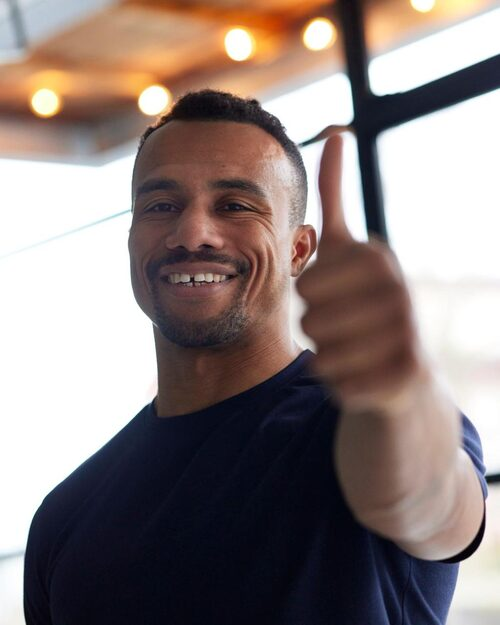
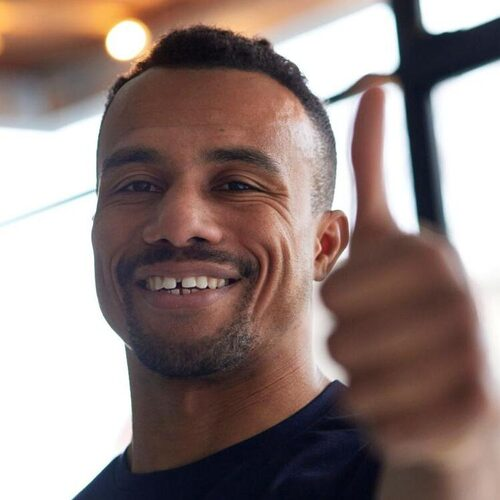
Team section: process Gijs's feedback of 2026-04-24
- "Leadership & Team" -> "Leadership, Partners & Team"; "And the team" -> "Partners"
- Partners: Ludo Keizer (logistics design Europe, Africa, N. America, Australasia),
  Iván Capdevila (Iberia, LatAm; links to La Nomàdica), Erik Wiebes (graphic design; links to Lemonpress)
- Team list (Scott, Zára, Esperanza, Melissa) under its own heading
- Photos re-cropped from the originals, closer on the face
- Preview script handles several lists; external links open in a new tab
- Mobile: tapping a name now opens the profile (the preview panel is hidden there)

diff --git a/index.html b/index.html
@@ -828,7 +828,7 @@
 
     <section class="leadership">
         <div class="leadership-header">
-            <span class="section-label">Leadership &amp; Team</span>
+            <span class="section-label">Leadership, Partners &amp; Team</span>
             <h2 class="leadership-title">Led by <span class="warm">curiosity</span>,<br>built by people.</h2>
         </div>
 
@@ -859,14 +859,14 @@
         </div>
 
         <div class="team-divider">
-            <span class="section-label">And the team</span>
+            <span class="section-label">Partners</span>
             <h3 class="team-divider-title">People Gijs <em>builds with</em>.</h3>
         </div>
 
-        <div class="team-grid-layout" id="teamLayout">
+        <div class="team-grid-layout">
             <ul class="team-items">
                 <li class="team-item"
-                    data-name="Ludo Keizer" data-role="Project Lead &amp; Design"
+                    data-name="Ludo Keizer" data-role="Project Lead &amp; Logistics Design · Europe, Africa, North America, Australasia"
                     data-photo="team/photos/ludo_keizer.jpeg"
                     data-href="team/ludo.html">
                     <a href="team/ludo.html" class="team-item-link">
@@ -874,6 +874,43 @@
                     </a>
                 </li>
 
+                <li class="team-item"
+                    data-name="Iván Capdevila" data-role="Project Lead &amp; Logistics Design · Iberia, Latin America"
+                    data-href="https://www.lanomadica.com/" data-link-label="Visit La Nomàdica">
+                    <a href="https://www.lanomadica.com/" class="team-item-link" target="_blank" rel="noopener">
+                        <span class="team-item-name">Iván Capdevila</span>
+                    </a>
+                </li>
+
+                <li class="team-item"
+                    data-name="Erik Wiebes" data-role="Graphic Design &amp; Artwork"
+                    data-href="https://www.lemonpress.nl/" data-link-label="Visit Lemonpress">
+                    <a href="https://www.lemonpress.nl/" class="team-item-link" target="_blank" rel="noopener">
+                        <span class="team-item-name">Erik Wiebes</span>
+                    </a>
+                </li>
+            </ul>
+
+            <aside class="team-preview-panel" aria-hidden="true">
+                <div class="preview-card">
+                    <div class="preview-photo"></div>
+                    <div class="preview-text">
+                        <h4 class="preview-name"></h4>
+                        <p class="preview-role"></p>
+                        <p class="preview-bio"></p>
+                        <a href="#" class="preview-link">View full profile &#8594;</a>
+                    </div>
+                </div>
+            </aside>
+        </div>
+
+        <div class="team-divider">
+            <span class="section-label">Team</span>
+            <h3 class="team-divider-title">The people who <em>make it happen</em>.</h3>
+        </div>
+
+        <div class="team-grid-layout">
+            <ul class="team-items">
                 <li class="team-item"
                     data-name="Scott Everduim" data-role="Health, Vitality &amp; Strength"
                     data-photo="team/photos/scott.jpeg"
@@ -915,14 +952,14 @@
                 </li>
             </ul>
 
-            <aside class="team-preview-panel" id="teamPreviewPanel" aria-hidden="true">
-                <div class="preview-card" id="previewCard">
-                    <div class="preview-photo" id="previewPhoto"></div>
+            <aside class="team-preview-panel" aria-hidden="true">
+                <div class="preview-card">
+                    <div class="preview-photo"></div>
                     <div class="preview-text">
-                        <h4 class="preview-name" id="previewName"></h4>
-                        <p class="preview-role" id="previewRole"></p>
-                        <p class="preview-bio" id="previewBio"></p>
-                        <a href="#" class="preview-link" id="previewLink">View full profile &#8594;</a>
+                        <h4 class="preview-name"></h4>
+                        <p class="preview-role"></p>
+                        <p class="preview-bio"></p>
+                        <a href="#" class="preview-link">View full profile &#8594;</a>
                     </div>
                 </div>
             </aside>
@@ -987,17 +1024,16 @@
         });
 
         // Team list — click a name, fold out profile preview to the right
-        (function() {
-            const layout = document.getElementById('teamLayout');
-            const panel = document.getElementById('teamPreviewPanel');
-            if (!layout || !panel) return;
+        document.querySelectorAll('.team-grid-layout').forEach(function(layout) {
+            const panel = layout.querySelector('.team-preview-panel');
+            if (!panel) return;
 
             const items = layout.querySelectorAll('.team-item');
-            const photoEl = document.getElementById('previewPhoto');
-            const nameEl = document.getElementById('previewName');
-            const roleEl = document.getElementById('previewRole');
-            const bioEl = document.getElementById('previewBio');
-            const linkEl = document.getElementById('previewLink');
+            const photoEl = panel.querySelector('.preview-photo');
+            const nameEl = panel.querySelector('.preview-name');
+            const roleEl = panel.querySelector('.preview-role');
+            const bioEl = panel.querySelector('.preview-bio');
+            const linkEl = panel.querySelector('.preview-link');
 
             let currentKey = null;
 
@@ -1028,6 +1064,14 @@
                     bioEl.style.display = 'none';
                 }
                 linkEl.setAttribute('href', d.href);
+                linkEl.textContent = (d.linkLabel || 'View full profile') + ' \u2192';
+                if (/^https?:/.test(d.href)) {
+                    linkEl.setAttribute('target', '_blank');
+                    linkEl.setAttribute('rel', 'noopener');
+                } else {
+                    linkEl.removeAttribute('target');
+                    linkEl.removeAttribute('rel');
+                }
                 positionPanel(item);
                 panel.classList.add('active');
             };
@@ -1050,6 +1094,8 @@
                 link.addEventListener('click', (e) => {
                     // Allow ctrl/cmd/middle-click to navigate directly (open in new tab)
                     if (e.ctrlKey || e.metaKey || e.button === 1) return;
+                    // Mobile: the preview panel is hidden, so follow the link
+                    if (getComputedStyle(panel).display === 'none') return;
                     e.preventDefault();
                     if (item.dataset.href === currentKey) {
                         hide();
@@ -1063,7 +1109,7 @@
             document.addEventListener('click', (e) => {
                 if (currentKey && !layout.contains(e.target)) hide();
             });
-        })();
+        });
 
     </script>
 

diff --git a/team/ludo.html b/team/ludo.html
@@ -5,7 +5,7 @@
     <meta name="viewport" content="width=device-width, initial-scale=1.0">
     <meta http-equiv="Content-Security-Policy" content="default-src 'self'; script-src 'self' 'unsafe-inline' https://analytics.perceptum.nl; style-src 'self' 'unsafe-inline'; font-src 'self'; img-src 'self' data:; connect-src 'self' https://analytics.perceptum.nl">
     <title>Ludo — The Future Firm</title>
-    <meta name="description" content="Ludo — Project Lead & Design at The Future Firm. Meet the people behind culture and strategy transformation.">
+    <meta name="description" content="Ludo — Project Lead & Logistics Design at The Future Firm. Meet the people behind culture and strategy transformation.">
     <link rel="icon" href="../favicon.ico" sizes="any">
     <link rel="icon" href="../favicon.svg" type="image/svg+xml">
     <link rel="apple-touch-icon" href="../apple-touch-icon.png">
@@ -181,7 +181,7 @@
             <img src="photos/ludo_keizer.jpeg" alt="Ludo Keizer">
         </div>
         <h1>Ludo</h1>
-        <p class="role">Project Lead &amp; Design</p>
+        <p class="role">Project Lead &amp; Logistics Design · Europe, Africa, North America, Australasia</p>
         <p class="bio">Bio coming soon. Check back later.</p>
         <a href="../team.html" class="back-link">&#8592; Back to the team</a>
     </main>

diff --git a/team.html b/team.html
@@ -509,7 +509,7 @@
             </a>
 
             <a href="team/ludo.html" class="team-member" style="--i: 1"
-               data-name="Ludo Keizer" data-role="Project Lead & Design"
+               data-name="Ludo Keizer" data-role="Project Lead & Logistics Design · Europe, Africa, North America, Australasia"
                data-photo="team/photos/ludo_keizer.jpeg">
                 <div class="photo-circle">
                     <img src="team/photos/ludo_keizer.jpeg" alt="Ludo Keizer">
